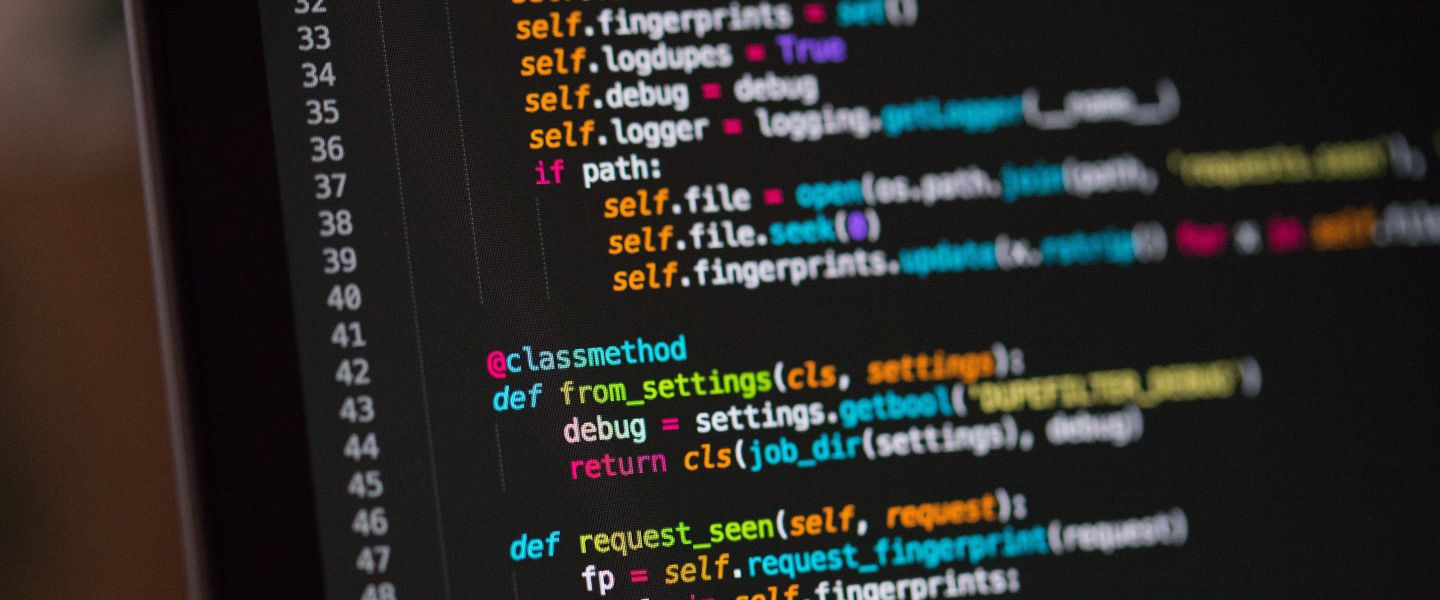
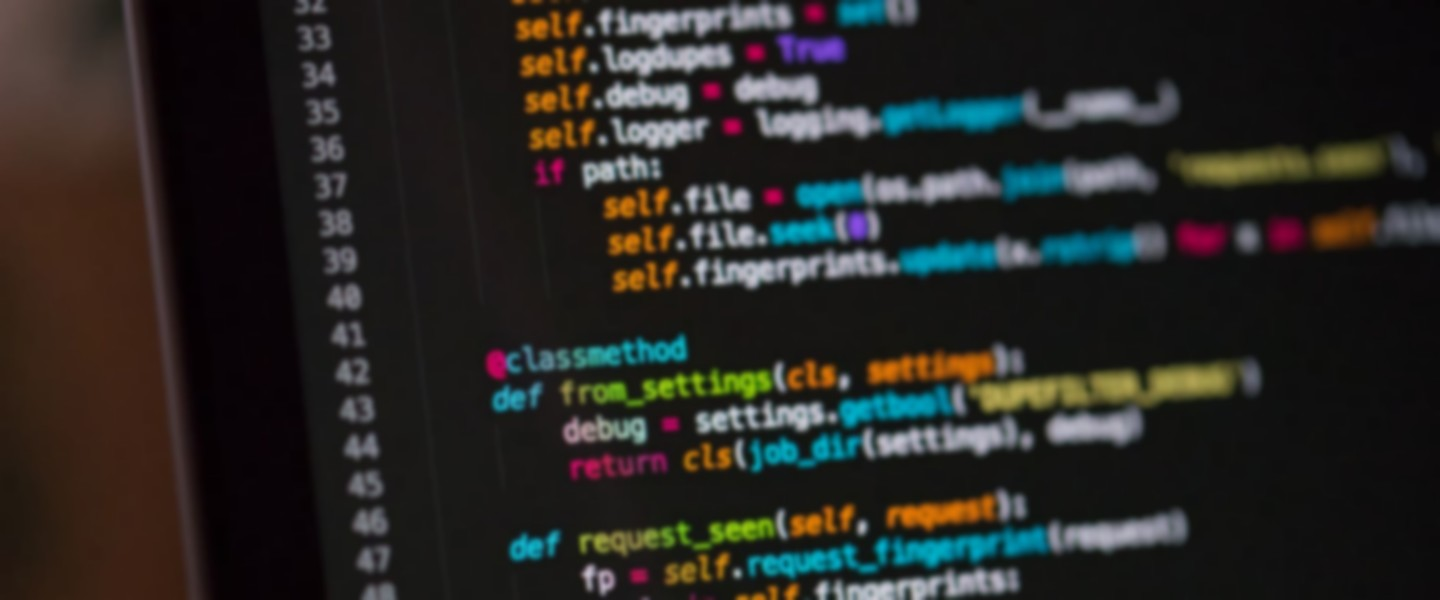
Ajout de mon profile GitHub dans la navbar et floutage de l'image du parallaxe pour faire ressortir le texte dynamique

diff --git a/index.html b/index.html
@@ -68,6 +68,12 @@
                     </svg>
                     <a href="https://www.linkedin.com/in/victorien-rodrigues-86a46a1a1/" target="_blank">Linkedin</a>
                 </li>
+                <li>
+                    <svg>
+                        <path d="M8 0C3.58 0 0 3.58 0 8c0 3.54 2.29 6.53 5.47 7.59.4.07.55-.17.55-.38 0-.19-.01-.82-.01-1.49-2.01.37-2.53-.49-2.69-.94-.09-.23-.48-.94-.82-1.13-.28-.15-.68-.52-.01-.53.63-.01 1.08.58 1.23.82.72 1.21 1.87.87 2.33.66.07-.52.28-.87.51-1.07-1.78-.2-3.64-.89-3.64-3.95 0-.87.31-1.59.82-2.15-.08-.2-.36-1.02.08-2.12 0 0 .67-.21 2.2.82.64-.18 1.32-.27 2-.27.68 0 1.36.09 2 .27 1.53-1.04 2.2-.82 2.2-.82.44 1.1.16 1.92.08 2.12.51.56.82 1.27.82 2.15 0 3.07-1.87 3.75-3.65 3.95.29.25.54.73.54 1.48 0 1.07-.01 1.93-.01 2.2 0 .21.15.46.55.38A8.012 8.012 0 0 0 16 8c0-4.42-3.58-8-8-8z"/>
+                    </svg>
+                    <a href="https://github.com/Victorien37" target="_blank">GitHub</a>
+                </li>
             </ul>
         </nav>
         <!-- NAVBAR MOBILE -->
@@ -130,6 +136,12 @@
                             <path d="M0 1.146C0 .513.526 0 1.175 0h13.65C15.474 0 16 .513 16 1.146v13.708c0 .633-.526 1.146-1.175 1.146H1.175C.526 16 0 15.487 0 14.854V1.146zm4.943 12.248V6.169H2.542v7.225h2.401zm-1.2-8.212c.837 0 1.358-.554 1.358-1.248-.015-.709-.52-1.248-1.342-1.248-.822 0-1.359.54-1.359 1.248 0 .694.521 1.248 1.327 1.248h.016zm4.908 8.212V9.359c0-.216.016-.432.08-.586.173-.431.568-.878 1.232-.878.869 0 1.216.662 1.216 1.634v3.865h2.401V9.25c0-2.22-1.184-3.252-2.764-3.252-1.274 0-1.845.7-2.165 1.193v.025h-.016a5.54 5.54 0 0 1 .016-.025V6.169h-2.4c.03.678 0 7.225 0 7.225h2.4z"/>
                         </svg>
                         <a href="https://www.linkedin.com/in/victorien-rodrigues-86a46a1a1/" target="_blank">Linkedin</a>
+                    </li>
+                    <li>
+                        <svg>
+                            <path d="M8 0C3.58 0 0 3.58 0 8c0 3.54 2.29 6.53 5.47 7.59.4.07.55-.17.55-.38 0-.19-.01-.82-.01-1.49-2.01.37-2.53-.49-2.69-.94-.09-.23-.48-.94-.82-1.13-.28-.15-.68-.52-.01-.53.63-.01 1.08.58 1.23.82.72 1.21 1.87.87 2.33.66.07-.52.28-.87.51-1.07-1.78-.2-3.64-.89-3.64-3.95 0-.87.31-1.59.82-2.15-.08-.2-.36-1.02.08-2.12 0 0 .67-.21 2.2.82.64-.18 1.32-.27 2-.27.68 0 1.36.09 2 .27 1.53-1.04 2.2-.82 2.2-.82.44 1.1.16 1.92.08 2.12.51.56.82 1.27.82 2.15 0 3.07-1.87 3.75-3.65 3.95.29.25.54.73.54 1.48 0 1.07-.01 1.93-.01 2.2 0 .21.15.46.55.38A8.012 8.012 0 0 0 16 8c0-4.42-3.58-8-8-8z"/>
+                        </svg>
+                        <a href="https://github.com/Victorien37" target="_blank">GitHub</a>
                     </li>
                 </ul>
             </div>
@@ -480,7 +492,7 @@
                 <p class="align-middle">Le but de ce stage était de créer un add-on pour le logiciel de rendu 3D Blender en utilisant son API (Python)<br>L'add'on est un moteur de jeu qui permet de se déplacer dans un environnement en 3 dimensions non prédictible. Le but était d'automatiser un personnage qui marche devant, derrière, à gauche, à droite de lui tout en gérant les collisions, les pentes, ...</p>
                 <a href="pdf/RDS-RUDYMICHAU.pdf" target="_blank" class="jaune">Le rapport de stage ici</a>
                 <br><br>
-                <p class="minuscule">Compétence : Organiser son développement professionnel, Travailler en mode projet, Développer la présence en ligne de l'organisation, Gérer le patrimoine informatique/p>
+                <p class="minuscule">Compétence : Organiser son développement professionnel, Travailler en mode projet, Développer la présence en ligne de l'organisation, Gérer le patrimoine informatique </p>
             </div>
 
             <!--Concours des vins-->
